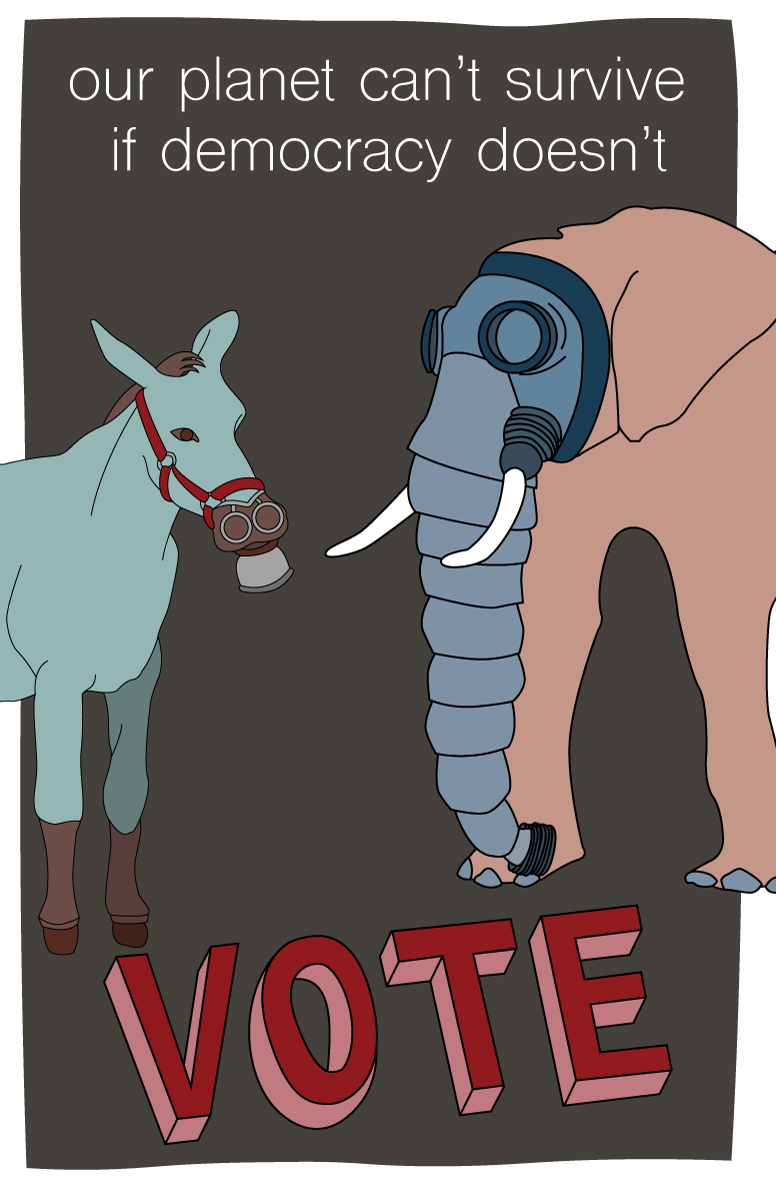
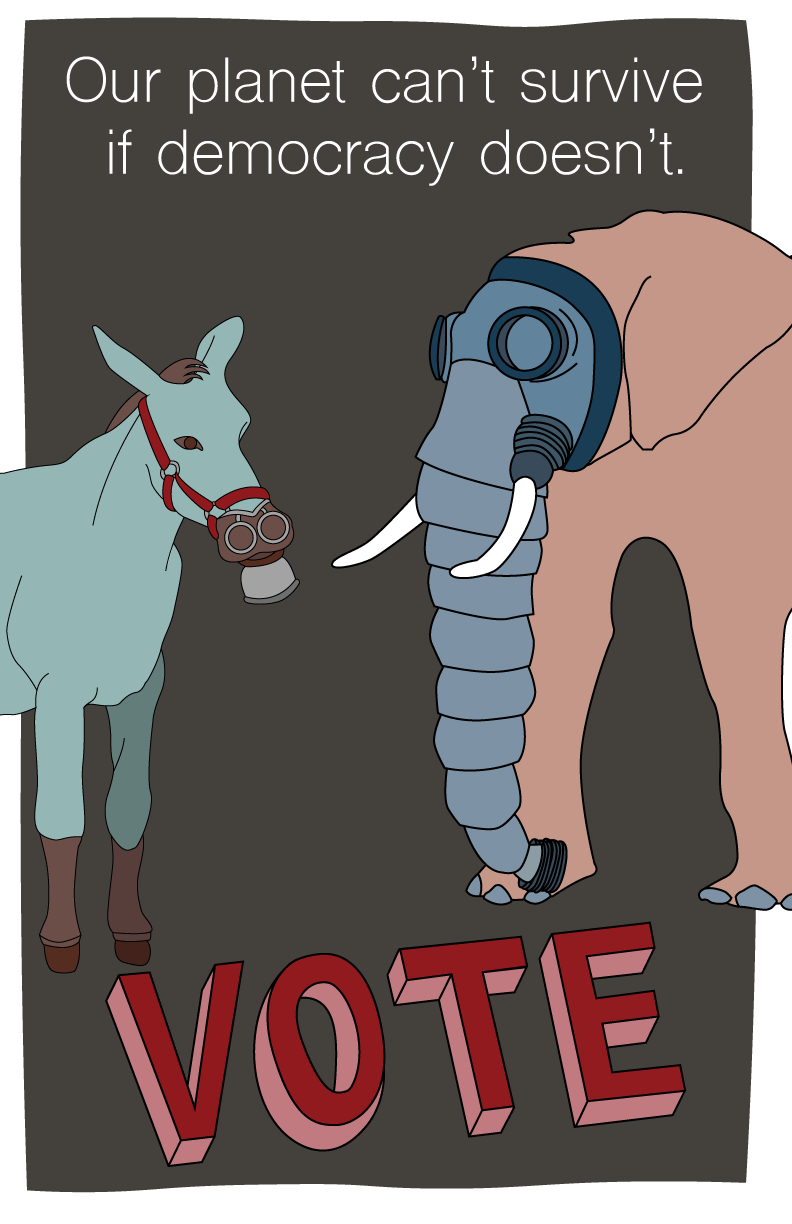
added descriptions to three more pages

diff --git a/vote-poster/index.html b/vote-poster/index.html
@@ -34,7 +34,7 @@
         <h2>Vote Poster</h2>
         <div class="single-image-grid">
           <figure class="grid-item">
-            <img class="myImg" src="../images/vote-poster.png" height="600px"/>
+            <img class="myImg" src="../images/vote-poster.png" height="550px"/>
             <figcaption>
               <art-title>Vote Poster</art-title>
               <br>
@@ -44,7 +44,20 @@
             </figcaption>
           </figure>
           <div class="grid-item">
-            <p> Description goes here. </p>
+            <p class="description">
+              One of the assignments in a Digital Design class I took was to create a nonpartisan Vote poster, right around
+              the time of the 2016 U.S. Presidential Election. It took me a few iterations on different ideas before I stumbled upon
+              one that really struck me. Though the issue isn't exactly neutral across all political views, I found a way to include
+              both parties in the picture, communicating the urgency of the issue while easing some of the tension through the
+              illustration's subtle absurdity.
+              <br/>
+              <br/>
+              Including the patriotic red and blue colors was practically a requirement, but to fit the post-apocalpytic theme, I kept
+              the colors muted and used white to frame the space and highlight the text at the top. If I were to re-do this poster, I would experiment
+              with different styles for the "Vote" lettering; Though the 3D effect aims to draw attention to the call-to-action, the angle interacts
+              awkwardly with the 2D elements on the page. Instead, I would flatten the letters but use other techniques like contrast or scale for
+              emphasis.
+          </p>
           </div>
         </div>
         <div id="myModal" class="modal">

diff --git a/still-life/index.html b/still-life/index.html
@@ -34,7 +34,7 @@
 			<h2>Still Life</h2>
 			<div class="single-image-grid">
 				<figure class="grid-item">
-					<img class="myImg" src="../images/still-life.jpg" height="600px"/>
+					<img class="myImg" src="../images/still-life.jpg" height="550px"/>
 					<figcaption>
 						<art-title>Shiny Still Life</art-title>
 						<br>
@@ -44,7 +44,17 @@
 					</figcaption>
 				</figure>
 				<div class="grid-item">
-          <p> Description goes here. </p>
+          <p class="description">
+						This still life emerged from the final assignment in a Foundational Drawing I course, where the prompt was literally
+						"whatever you want it to be." I love hyperrealistic drawings and paintings of shiny objects –
+						there's just something so satisfying about successfully capturing the reflections of light that make glass look like glass,
+						the sharp highlights that characterize a metal surface. So I decided to gather as many shiny objects as I could find and shove
+						them all in one drawing.
+						<br/>
+						</br/>
+						Oh, and if you're curious – ask me about the story of how I pulled three all-nighters in a row to finish this in time for
+						the final review.
+					</p>
 				</div>
 			</div>
 			<div id="myModal" class="modal">

diff --git a/best-rooms/index.html b/best-rooms/index.html
@@ -34,7 +34,7 @@
 			<h2>Best Rooms Poster</h2>
 			<div class="single-image-grid">
 				<figure class="grid-item">
-					<img class="myImg" src="../images/best_rooms_poster.png" height="600px"/>
+					<img class="myImg" src="../images/best_rooms_poster.png" height="550px"/>
 					<figcaption>
 						<art-title>Best Rooms Poster</art-title>
 						<br>
@@ -47,7 +47,7 @@
           <p class="description">
 						During my junior and senior years of college, I worked for the Office of Residential Life, creating designs
 						for marketing materials, social media campaigns, and posters about housing procedures. One of my favorite
-						projects was making this illustration for our first ever Best Rooms Contest.
+						projects was making this illustration for our first ever <a href="https://sites.wustl.edu/decyourdigswashu/">Best Rooms Contest</a>.
 						<br/>
 						<br/>
 						As one of the top-ranked universities for student housing, WashU offered very pleasent living spaces that

diff --git a/college/index.html b/college/index.html
@@ -70,6 +70,14 @@
 					</figcaption>
 				</figure>
 			</div>
+			<p class="description">
+				When I was a Resident Advisor in college, I loved planning academic programs and designing posters to advertise them.
+				Every Residential Hall belongs to a community called a ResCollege, each with its own colors, symbols, and traditions.
+				Brookings, the ResCollege where I lived and worked, has traditions like Breakfast for Dinner and "Brookies" (brownie cookies),
+				Kings as our mascot, and Royal Blue and Yellow as our colors. We also had a joint event with another ResCollege known as USoFo
+				(colors: Light Blue and Red, mascot: Whale). In these posters, I strategically placed the ResCollege colors and used playful
+				imagery to entice first-year students to attend.
+			</p>
 			<div id="myModal" class="modal">
 			  <span class="close">&times;</span>
 			  <img class="modal-content" id="img01">

diff --git a/loss/index.html b/loss/index.html
@@ -72,9 +72,9 @@
 			</div>
 			<p class="description">
 				This series evolved out of the devastating end of a deeply close relationship, each image depicting a different aspect
-				of losing someone so central to your existence that it disrupts everything you once thought, believed, and held to be true.
-				At once confrontational and vulnerable, in these pieces I directly address the other person for the pain they caused
-				while also openly expressing how much they meant to me.
+				of how losing someone disrupts so much of what you once thought, believed, and held to be true.
+				Both confrontational and vulnerable, in these pieces I directly address the other person for the pain they caused
+				while openly expressing how much they meant to me.
 			</p>
 			<!--
 				Tapping into pain for inspiration felt constructive, but borrowing from darkness without becoming swallowed by it

diff --git a/wine/index.html b/wine/index.html
@@ -70,6 +70,13 @@
 					</figcaption>
 				</figure>
 			</div>
+			<p class="description">
+				Created for <a href="https://www.lynfredwinery.com/">Lynfred Winery</a>, a local winery in the Chicago area,
+				these paintings celebrate the beauty of their wines through rich colors, sparkling glasses, and intricate details. In addition
+				to making the paintings themselves, I composed and shot all of the reference photographs, featuring one red and one fruit wine
+				in the first image, a line of dessert wines in the second, and a glass of white, rosé, and red in the third.
+				(If you happen to be in the area, by the way, their wines are excellent.)
+			</p>
 			<div id="myModal" class="modal">
 			  <span class="close">&times;</span>
 			  <img class="modal-content" id="img01">

diff --git a/about/index.html b/about/index.html
@@ -45,9 +45,8 @@
 					thing didn't quite work out, so I ended up with a Design minor instead.
 				</p>
 				<p>
-					I create to capture my thoughts and ideas through imagery, visual metaphors, and artistic techniques. My hope is that
-					through these images, I can share these ideas and communicate them on a deeper, more intuitive level that will
-					resonate with other people.
+					I create to capture thoughts and ideas through imagery, visual metaphors, and artistic techniques. My hope is to
+					share these ideas and communicate them on a deeper, more intuitive level that will resonate with other people.
 				</p>
 				<p>
 					When I'm not drawing, designing, writing, or coding, I'm probably running around the National Mall,
